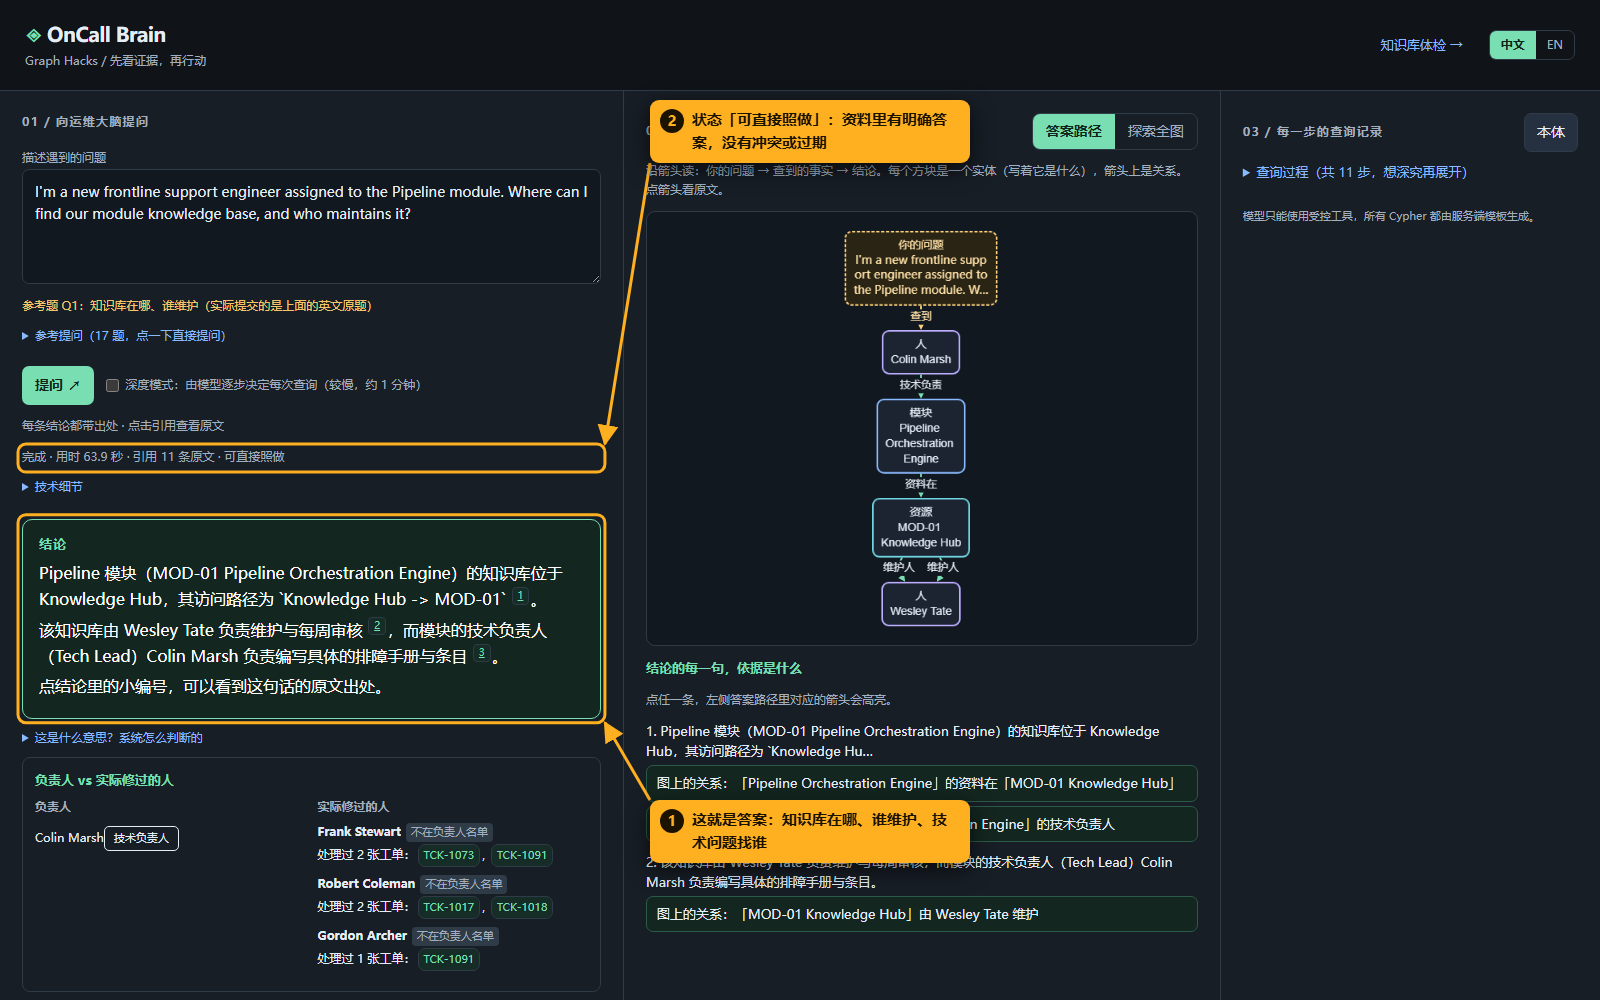
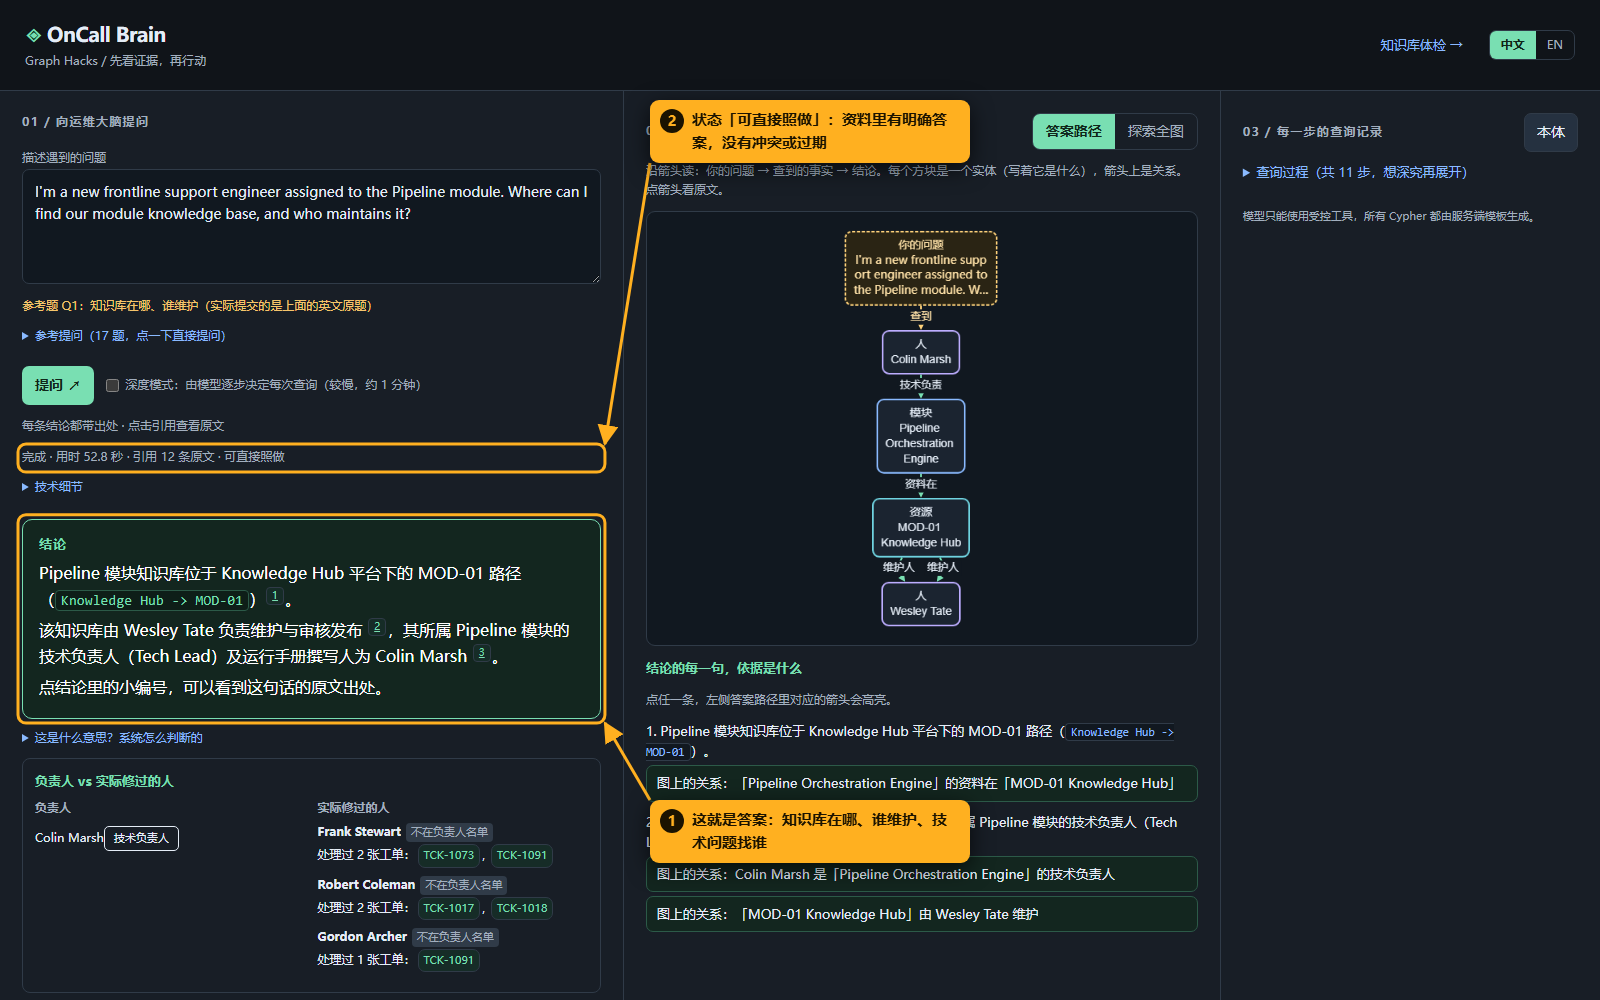
Walkthrough: readable proof shots; render inline code; no-wrap module ids
Shot 04 now uses the answer-path view; shot 06 centers on the cited
HOLDS_ROLE edge. Fit-to-proof only fits cited elements. Inline `code`
in answers renders as <code>; health module id chips no longer wrap.

Claude-Session: https://claude.ai/code/session_01WcJH1ZX2cwTBMdDaynTTq6

diff --git a/web/static/index.html b/web/static/index.html
@@ -23,6 +23,10 @@
   .expertise-card{border:1px solid var(--line);border-radius:8px;padding:12px;margin:10px 0;font-size:12px}.expertise-card h3{margin:0 0 8px;font-size:13px;color:var(--mint)}.expertise-columns{display:grid;grid-template-columns:minmax(0,1fr) minmax(0,1fr);gap:12px}.expertise-columns h4{margin:0 0 6px;color:var(--muted);font-size:12px}.expertise-columns p{margin:6px 0}.expertise-outside{display:inline-block;border-radius:4px;padding:1px 5px;margin-left:5px;background:var(--line);color:var(--muted);font-size:11px}
   #path{height:auto;max-height:760px;overflow:auto;min-height:330px}#path-canvas{height:420px;position:relative}#path-tooltip{position:fixed;z-index:100;max-width:min(440px,90vw);padding:10px 12px;border:1px solid var(--amber);border-radius:7px;background:#2a2414;color:#ffe2a8;font-size:13px;white-space:pre-wrap;overflow-wrap:anywhere;pointer-events:none}#q-label:empty{display:none}
   #ask-progress .progress-result{white-space:nowrap;overflow:hidden;text-overflow:ellipsis}
+  code{font-family:ui-monospace,SFMono-Regular,Menlo,Consolas,monospace;font-size:.9em;background:#111820;border:1px solid var(--line);border-radius:4px;padding:1px 5px;color:var(--blue)}
+  .conclusion code{background:#0e1e18;border-color:#2c5a48;color:var(--mint)}
+  .conclusion.conflict code{background:#201a0d;border-color:#5c4718;color:var(--amber)}
+  .conclusion.superseded code{background:#0d1826;border-color:#264366;color:var(--blue)}
   </style>
 </head>
 <body>
@@ -395,13 +399,36 @@ function showEvidence(item, label) {
   $('evidence-text').textContent=item.excerpt || t('no_excerpt');
   $('evidence-dialog').showModal();
 }
+function escapeHtml(str) {
+  if (str === null || str === undefined) return '';
+  return String(str)
+    .replace(/&/g, '&amp;')
+    .replace(/</g, '&lt;')
+    .replace(/>/g, '&gt;')
+    .replace(/"/g, '&quot;')
+    .replace(/'/g, '&#039;');
+}
+function renderInlineCode(text) {
+  let s = text;
+  const backticks = (s.match(/`/g) || []).length;
+  if (backticks % 2 === 1) {
+    if (s.endsWith('…')) s = s.slice(0, -1) + '`…';
+    else s = s + '`';
+  }
+  return escapeHtml(s).replace(/`([^`\n]+)`/g, '<code>$1</code>');
+}
+function appendWithInlineCode(parent, text) {
+  const span = document.createElement('span');
+  span.innerHTML = renderInlineCode(text);
+  while (span.firstChild) parent.append(span.firstChild);
+}
 function appendCitations(parent, text) {
   const pattern=/\[[^\]\n]+\]/g;
   let cursor=0;
   for(const match of text.matchAll(pattern)) {
     const citation=citations.find(c=>c.text===match[0]);
     if(!citation)continue;
-    parent.append(document.createTextNode(text.slice(cursor,match.index)));
+    appendWithInlineCode(parent, text.slice(cursor,match.index));
     const item=evidence.find(e=>e.id===citation.evidence_id);
     if(!citeNumbers.has(match[0])) citeNumbers.set(match[0], citeNumbers.size+1);
     const button=el('button',`${citeNumbers.get(match[0])}`,`citation cite-n ${item && (item.authority!=='formal_rule' || /(?:^|\/)chats\//.test(item.source))?'chat':''}`);
@@ -411,7 +438,7 @@ function appendCitations(parent, text) {
     button.addEventListener('click',()=>{focusCitation(citation.aid); showEvidence(item || {}, match[0]);}); parent.append(button);
     cursor=match.index+match[0].length;
   }
-  parent.append(document.createTextNode(text.slice(cursor)));
+  appendWithInlineCode(parent, text.slice(cursor));
 }
 function renderExpertise(data) {
   const results=(data.expertise || []).filter(r=>r.handlers?.length && r.owners && r.start_id);
@@ -549,7 +576,10 @@ function markProof() {
       const lit = cy.edges().filter(e => cites.some(c => c.aid === e.data('aid')) || (edges.some(x => x.id() === e.id()) && named(e)));
       const item = el('div', undefined, 'proof-item');
       const plain = line.replace(/\s*\[[^\]\n]*(?:→|->|corpus\/)[^\]\n]*\]/g, '').trim();
-      item.append(el('p', `${i + 1}. ${plain.length > 90 ? plain.slice(0, 90) + '…' : plain}`, 'proof-sentence'));
+      const p = el('p', undefined, 'proof-sentence');
+      p.append(document.createTextNode(`${i + 1}. `));
+      appendWithInlineCode(p, plain.length > 90 ? plain.slice(0, 90) + '…' : plain);
+      item.append(p);
       if (lit.length) {
         lit.forEach(e => {
           const text = say(e), aid = e.data('aid');
@@ -570,7 +600,7 @@ function markProof() {
   if(edges.length) {
     cy.elements().addClass('dim');
     edges.removeClass('dim').addClass('cited');
-    edges.connectedNodes().removeClass('dim').addClass('cited');
+    edges.connectedNodes().removeClass('dim').addClass('cited').style('text-opacity', 1);
     $('graph-summary').textContent = t('proof', {e: edges.length});
     // Open on the proof path; the dimmed context is still there when zoomed out.
     cy.fit(edges.connectedNodes(), 60); cy.zoom(Math.min(1.5, Math.max(0.9, cy.zoom()))); cy.center(edges.connectedNodes());
@@ -624,8 +654,8 @@ if(window.cytoscape) {
     {selector:'edge.near',style:{'text-opacity':1,width:2,'line-color':'#79dfb2','target-arrow-color':'#79dfb2','z-index':20}},
     {selector:'edge[authority = "observation"],edge[authority = "practice"]',style:{'line-color':'#f5c56c','target-arrow-color':'#f5c56c','line-style':'dashed'}},
     {selector:'.dim',style:{opacity:.22}},
-    {selector:'edge.cited',style:{width:3.5,'line-color':'#79dfb2','target-arrow-color':'#79dfb2','line-style':'solid','text-opacity':1,'font-size':9,color:'#e5edf7','z-index':30,opacity:1}},
-    {selector:'node.cited',style:{'text-opacity':1,'border-width':3,'border-color':'#79dfb2','z-index':30,opacity:1}},
+    {selector:'edge.cited',style:{width:3.5,'line-color':'#79dfb2','target-arrow-color':'#79dfb2','line-style':'solid','text-opacity':1,'font-size':11,color:'#e5edf7','z-index':30,opacity:1,'text-background-opacity':0.9,'text-background-color':'#111820','text-background-padding':3}},
+    {selector:'node.cited',style:{'text-opacity':1,'border-width':3,'border-color':'#79dfb2','z-index':30,opacity:1,'font-size':11,'text-background-opacity':0.85,'text-background-color':'#111820','text-background-padding':3}},
     {selector:'.focus',style:{'line-color':'#ffffff','target-arrow-color':'#ffffff','border-color':'#ffffff',width:5}},
     {selector:'edge[directed = false]',style:{'target-arrow-shape':'none'}},
     {selector:':selected',style:{'border-width':3,'border-color':'#fff'}}]});
@@ -672,11 +702,23 @@ if(window.cytoscape) {
   const zoomBy = f => cy.zoom({level: Math.min(3, Math.max(0.15, cy.zoom() * f)), renderedPosition: {x: $('graph').clientWidth / 2, y: $('graph').clientHeight / 2}});
   $('zoom-in').onclick = () => zoomBy(1.25);
   $('zoom-out').onclick = () => zoomBy(1 / 1.25);
-  $('fit-proof').onclick = () => { const c = cy.$('.cited'); if (c.length) { cy.animate({fit: {eles: c, padding: 60}, duration: 300}); } };
+  $('fit-proof').onclick = () => {
+    const c = cy.$('.cited');
+    if (c.length) {
+      cy.animate({
+        fit: { eles: c, padding: 60 },
+        duration: 300,
+        complete: () => {
+          cy.zoom(Math.min(1.4, Math.max(0.9, cy.zoom())));
+          cy.center(c);
+        }
+      });
+    }
+  };
   // Names show for nodes this answer read; hovering reveals a node, its neighbours and their relations.
   cy.on('mouseover','node',e=>{e.target.addClass('hover');e.target.neighborhood().addClass('near');});
   cy.on('mouseout','node',e=>{e.target.removeClass('hover');e.target.neighborhood().removeClass('near');});
-  cy.on('zoom',()=>cy.nodes().not('[?root]').style('text-opacity',cy.zoom()>1.6?1:0));
+  cy.on('zoom',()=>cy.nodes().not('[?root], .cited').style('text-opacity',cy.zoom()>1.6?1:0));
 } else { $('graph').append(el('p',t('cdn_fail'),'error')); }
 $('ask-form').addEventListener('submit',async event=>{
   event.preventDefault();if(busy || !$('question').value.trim())return;

diff --git a/web/static/health.html b/web/static/health.html
@@ -382,10 +382,19 @@
       display: inline-flex;
       align-items: center;
       gap: 6px;
+      white-space: nowrap;
+      max-width: 100%;
     }
     .mod-chip code {
       color: var(--blue);
       font-size: 11px;
+      white-space: nowrap;
+      word-break: normal;
+    }
+    .mod-chip span {
+      overflow: hidden;
+      text-overflow: ellipsis;
+      white-space: nowrap;
     }
 
     /* Section 2: Owner vs Handlers */
@@ -425,6 +434,8 @@
       padding: 2px 6px;
       border-radius: 4px;
       border: 1px solid var(--line);
+      white-space: nowrap;
+      word-break: normal;
     }
     .oh-row {
       display: flex;

diff --git a/scripts/walkthrough_shots.py b/scripts/walkthrough_shots.py
@@ -6,6 +6,7 @@ screenshot; callouts are numbered in reading order.
 
     python scripts/walkthrough_shots.py docs/walkthrough
 """
+import os
 import sys
 from pathlib import Path
 
@@ -13,7 +14,8 @@ from playwright.sync_api import sync_playwright
 
 OUT = Path(sys.argv[1])
 OUT.mkdir(parents=True, exist_ok=True)
-URL = "http://127.0.0.1:8000"
+URL = os.environ.get("WALKTHROUGH_URL", "http://127.0.0.1:8000")
+ONLY_SHOTS = set(os.environ.get("ONLY_SHOTS", "").split(",")) if os.environ.get("ONLY_SHOTS") else None
 Q14 = ("A pipeline runner is stuck in a circular dependency deadlock. Should I ping "
        "Wesley Tate to log into the backend and terminate the zombie worker process?")
 
@@ -71,14 +73,39 @@ def rect(pg, sel):
 
 
 def edge_xy(pg, which=0, predicate=None):
-    pick = f"es.filter(x => x.data('predicate') === {predicate!r})[0] ||" if predicate else ""
+    pred_val = repr(predicate) if predicate else "null"
     return pg.evaluate(f"""() => {{
-      const es = cy.edges('.cited'); const e = {pick} es[{which}] || es[0]; if (!e) return null;
+      const p = {pred_val};
+      const es = cy.edges('.cited');
+      const e = (p ? es.filter(x => x.data('predicate') === p)[0] : null) || es[{which}] || es[0];
+      if (!e) return null;
       const m = e.renderedMidpoint(), b = document.getElementById('graph').getBoundingClientRect();
       return [b.left + m.x, b.top + m.y]; }}""")
 
 
+def edge_pred(pg, which=0, predicate=None):
+    pred_val = repr(predicate) if predicate else "null"
+    return pg.evaluate(f"""() => {{
+      const p = {pred_val};
+      const es = cy.edges('.cited');
+      const e = (p ? es.filter(x => x.data('predicate') === p)[0] : null) || es[{which}] || es[0];
+      return e ? e.data('predicate') : null; }}""")
+
+
+def focus_edge(pg, predicate, zoom=1.2):
+    """Center the graph on one cited edge at a readable zoom (falls back to all cited elements)."""
+    pg.evaluate(f"""() => {{
+      const es = cy.edges('.cited'); const e = es.filter(x => x.data('predicate') === {predicate!r})[0];
+      const target = e ? e.union(e.connectedNodes()) : cy.$('.cited');
+      if (!target.length) return;
+      cy.zoom({zoom}); cy.center(target); }}""")
+    pg.wait_for_timeout(400)
+
+
 def shot(pg, name, items, scroll_y=0):
+    if ONLY_SHOTS and not any(name.startswith(p) for p in ONLY_SHOTS):
+        print("skipping", name)
+        return
     pg.evaluate(f"() => {{ window.scrollTo(0, {scroll_y}); document.querySelectorAll('section').forEach(x => x.scrollTop = 0); }}")
     pg.evaluate(OVERLAY_JS, items)
     pg.wait_for_timeout(250)
@@ -132,17 +159,15 @@ with sync_playwright() as p:
     pg.locator("#close-dialog").click()
     pg.wait_for_timeout(1800)  # let the focus flash end
 
-    # 4. The graph: switch to explore tab to see Cytoscape graph with cited edges
+    # 4. The graph: the answer-path view draws question -> entities -> relations the conclusion cites
+    pg.locator('[data-view="path"]').click()
+    pg.wait_for_timeout(600)
+    shot(pg, "04-graph-proof.png", [
+        {"n": 1, "sel": "#path-canvas", "text": "答案路径：从你的问题出发，经过哪些实体、哪条关系得出结论。箭头上是关系名，例如「维护人」", "lx": 1210, "ly": 300, "w": 340},
+        {"n": 2, "sel": ".proof-item", "text": "结论的每一句对应图上哪条关系；点一句，上面的箭头就高亮", "lx": 1210, "ly": 700, "w": 340},
+    ])
     pg.locator('[data-view="explore"]').click()
-    pg.wait_for_timeout(500)
-    pg.evaluate("() => { const c = cy.$('.cited'); if (c.length) { cy.fit(c, 70); } }")
-    pg.wait_for_timeout(400)
-    g = rect(pg, "#graph")
-    xy = edge_xy(pg, predicate="MAINTAINED_BY")
-    items4 = [{"n": 2, "sel": "#graph-summary", "text": "变暗的是查过但没用上的内容；亮起几条线，结论就引用了几条关系", "lx": g[0] + 20, "ly": g[3] - 70, "w": 340}]
-    if xy:
-        items4.insert(0, {"n": 1, "xy": xy, "text": "亮绿色的线 = 结论的依据。线上写着关系名，例如「这份知识库由谁维护」", "lx": g[0] + 20, "ly": g[1] + 20, "w": 330})
-    shot(pg, "04-graph-proof.png", items4)
+    pg.wait_for_timeout(300)
 
     # 5. How it was found: open trace box
     pg.evaluate("() => { document.getElementById('trace-box').open = true; }")
@@ -159,17 +184,23 @@ with sync_playwright() as p:
     ask(pg, question=Q14)
     pg.locator('[data-view="explore"]').click()
     pg.wait_for_timeout(500)
-    pg.evaluate("() => { const c = cy.$('.cited'); if (c.length) { cy.fit(c, 70); } }")
-    pg.wait_for_timeout(400)
+    focus_edge(pg, 'HOLDS_ROLE')
     g = rect(pg, "#graph")
     xy = edge_xy(pg, predicate="HOLDS_ROLE")
+    pred = edge_pred(pg, predicate="HOLDS_ROLE")
+    if pred == "HOLDS_ROLE":
+        c4_text = "依据在图上：Colin 是 Tier 2 Pipeline Specialist（HOLDS_ROLE 角色），属于二线技术负责人；Wesley 只有维护文档关系"
+    elif pred:
+        c4_text = f"依据在图上：结论引用了 {pred} 关系作为依据；指出 Wesley 并非后端修复负责人"
+    else:
+        c4_text = "依据在图上：亮绿色的线是结论引用的依据；Wesley 并非后端修复负责人"
     items6 = [
         {"n": 1, "sel": "#question", "text": "这个问题本身就错了：它默认 Wesley 能去修服务器", "lx": g[0] + 20, "ly": 100, "w": 320},
-        {"n": 2, "sel": ".conclusion", "text": "系统没有顺着问题答，而是指出前提错误：别找 Wesley，找 Colin Marsh", "lx": g[0] + 20, "ly": 650, "w": 320},
-        {"n": 3, "sel": "#activity", "text": "所以状态是「说法冲突 / 问题前提不成立」", "lx": g[0] + 20, "ly": 220, "w": 320},
+        {"n": 2, "sel": ".conclusion", "text": "系统没有顺着问题答，而是指出前提错误：别找 Wesley，找 Colin Marsh", "lx": 1210, "ly": 580, "w": 340},
+        {"n": 3, "sel": "#activity", "text": "所以状态是「说法冲突 / 问题前提不成立」", "lx": g[0] + 20, "ly": 330, "w": 300},
     ]
     if xy:
-        items6.append({"n": 4, "xy": xy, "text": "依据在图上：Colin 是 Tier 2 Pipeline Specialist（HOLDS_ROLE 角色），属于二线技术负责人；Wesley 只有维护文档关系", "lx": g[2] - 340, "ly": 380, "w": 330})
+        items6.append({"n": 4, "xy": xy, "text": c4_text, "lx": 1210, "ly": 320, "w": 340})
     shot(pg, "06-trap.png", items6)
 
     # 7. Who actually fixed it card (Expertise card)
